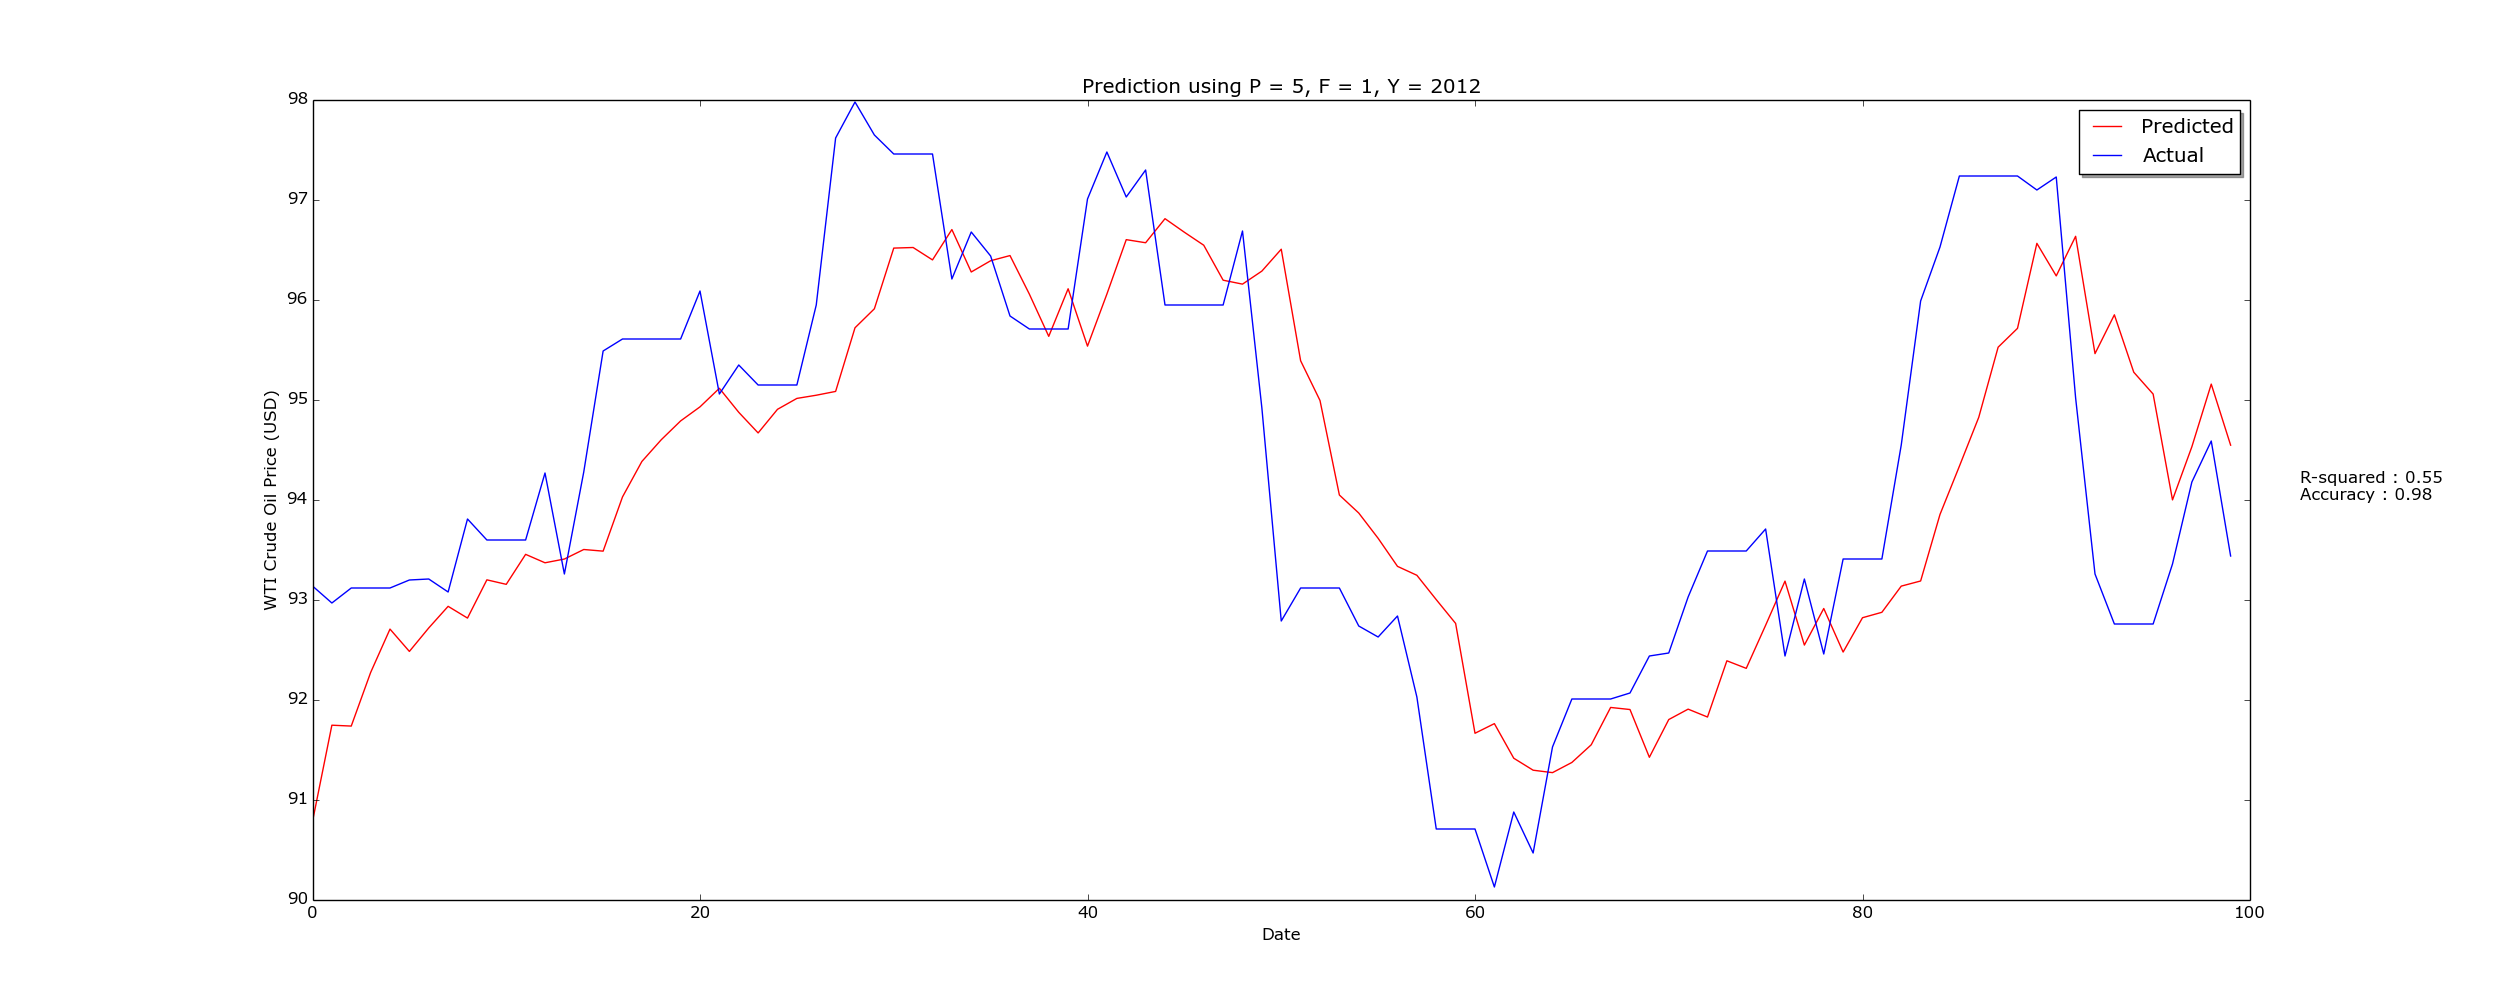
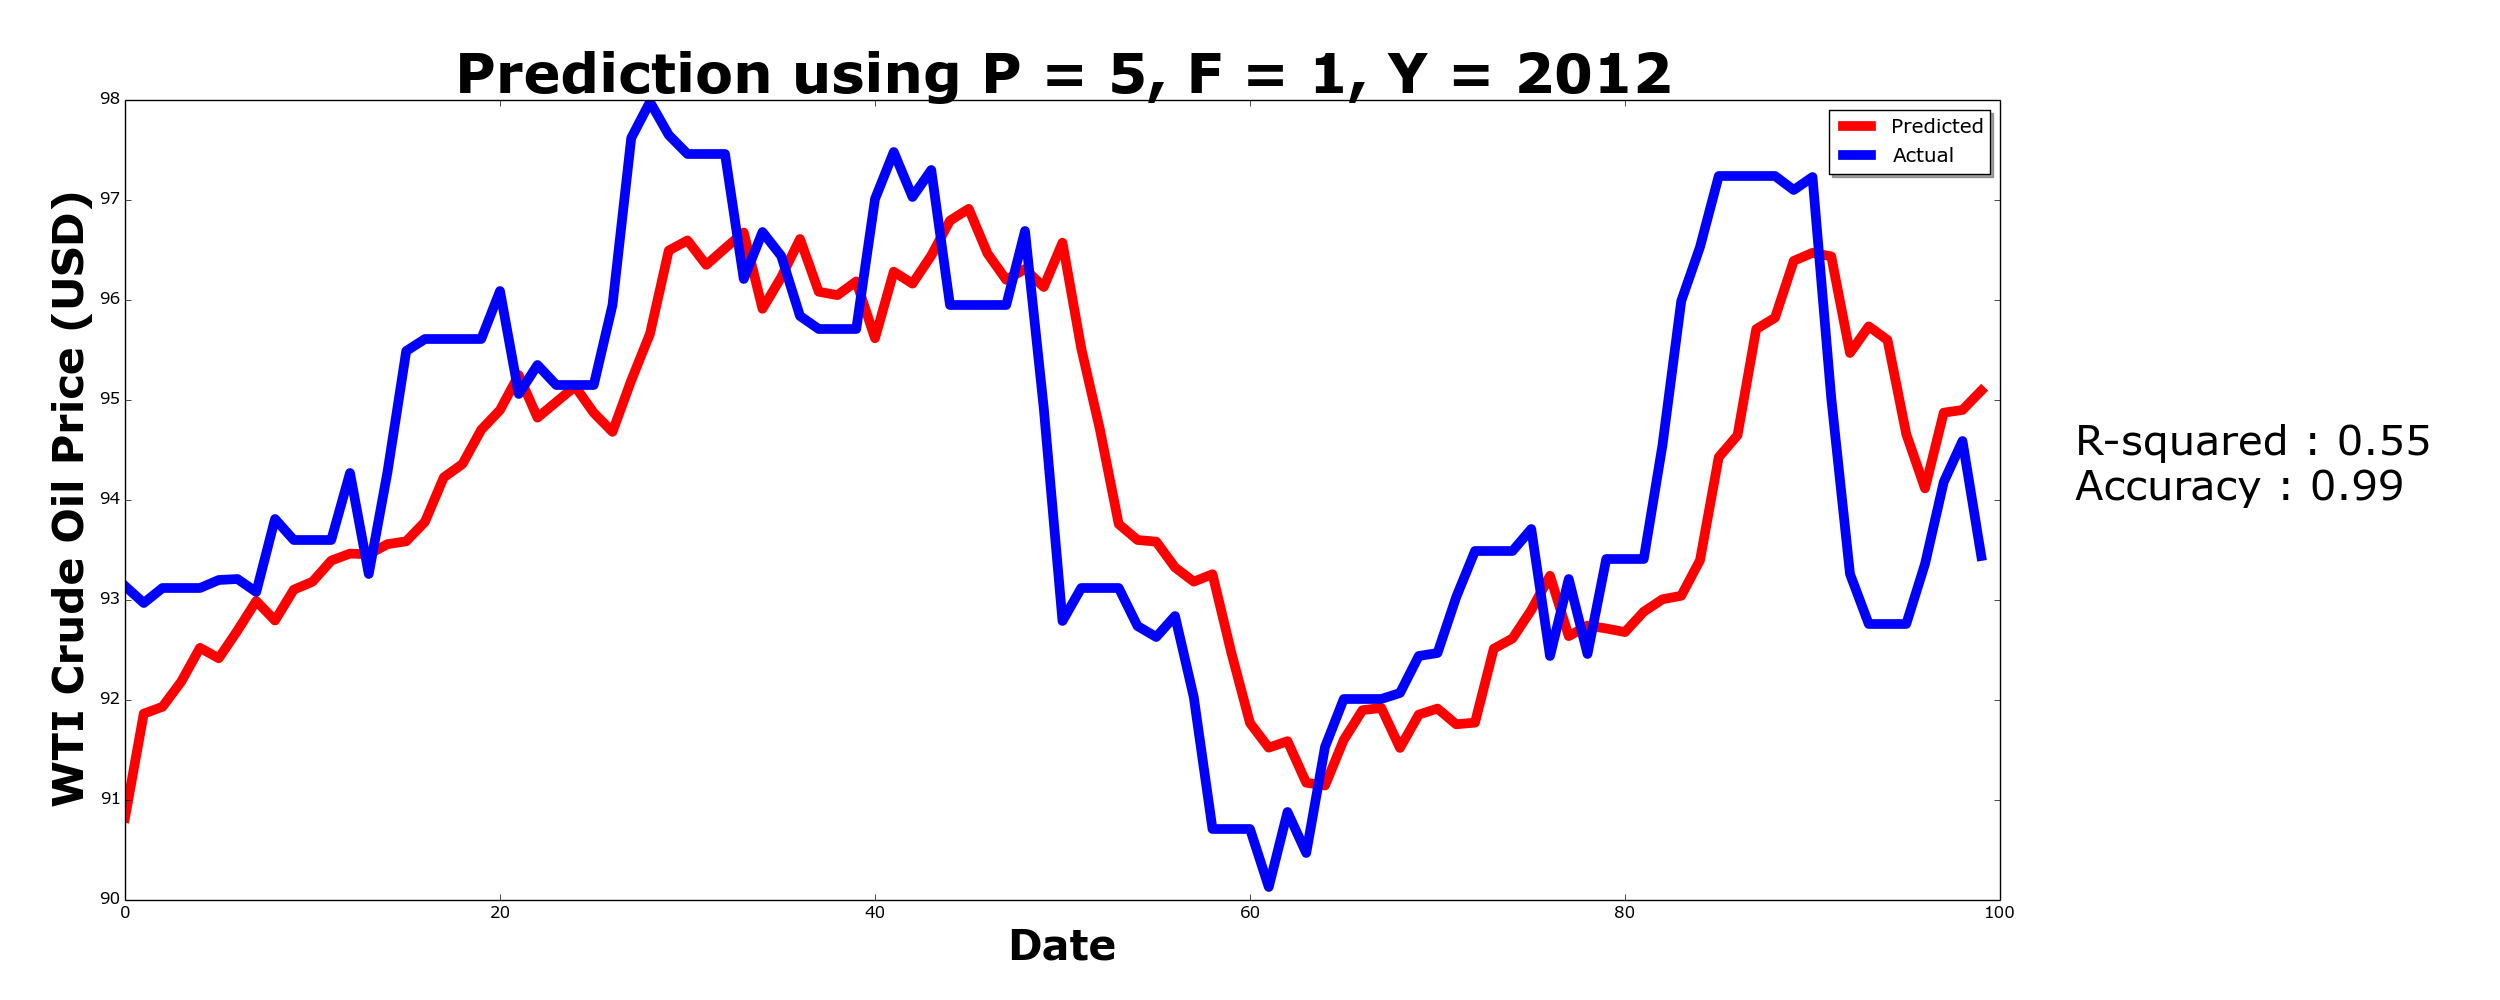
Formatting images and regenerating images for new format

diff --git a/pythonRandomForest/call_ml.py b/pythonRandomForest/call_ml.py
@@ -8,26 +8,27 @@ from common import date_time_to_str
 from common import get_date_range
 
 ######### DEFINE THE SOLUTION SPACE ############
-MIN_YEAR = 2015
+MIN_YEAR = 2009
 MAX_YEAR = 2017
 ###############################################
 
 def plot_params(params, predicted, actual, r2, acc):
     idx = [i for i in range(0, len(predicted))]
     pl.figure(figsize=(25,10))
-    pl.plot(idx, predicted, 'r', label = "Predicted")
-    pl.plot(idx, actual, 'b', label = "Actual")
-    pl.legend(shadow=True)
-    pl.xlabel("Date")
-    pl.ylabel("WTI Crude Oil Price (USD)")
-    pl.title("Prediction using P = {}, F = {}, Y = {}".format(params[1], params[0], MIN_YEAR) )
-    pl.figtext(0.92, 0.5, "R-squared : {}\nAccuracy : {}".format(r2, acc))
+    pl.plot(idx, predicted, 'r', label = "Predicted", lw=7)
+    pl.plot(idx, actual, 'b', label = "Actual", lw=7)
+    pl.legend(loc = "upper right", shadow=True)
+    pl.xlabel("Date", weight = "bold", size=30)
+    pl.ylabel("WTI Crude Oil Price (USD)", weight = "bold", size=30)
+    pl.title("Prediction using P = {}, F = {}, Y = {}".format(params[1], params[0], MIN_YEAR), weight = "bold", size = 40)
+    pl.figtext(0.83, 0.5, "R-squared : {}\nAccuracy : {}".format(r2, acc), size=30)
+    pl.subplots_adjust(left=0.05, right=0.8, top=0.9, bottom=0.1)
     pl.savefig("../Frontend/img/{},{},{}.png".format(params[1], params[0], MIN_YEAR), dpi = 100)
     # pl.show()
 
 def testParams():
+    pValues = [5]
     fValues = [7]
-    pValues = [30]
     numTestPoints = 100
     trainingDays = 365
     max_day = datetime.date(year = MAX_YEAR, month = 12, day = 31)
@@ -64,7 +65,7 @@ def testParams():
                 allActual.append(actual)
             r2=r2_score(allActual, allPredicted)
             print "R2 = {}".format(r2)    
-            acc = [1 if (abs(a-b)/a) < 0.03 else 0 for (a,b) in zip(allActual, allPredicted)]
+            acc = [1 if (abs(a-b)/a) < 0.04 else 0 for (a,b) in zip(allActual, allPredicted)]
             acc = sum(acc)/float(len(acc))
             print "Accuracy = {}".format(acc)    
             if r2 > best_r2:
